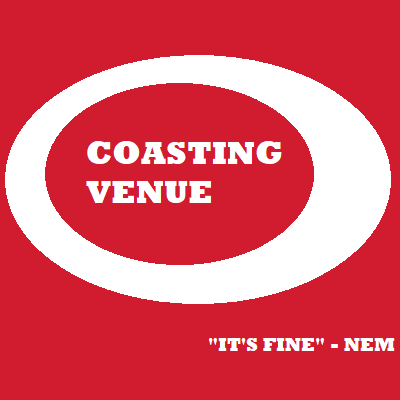
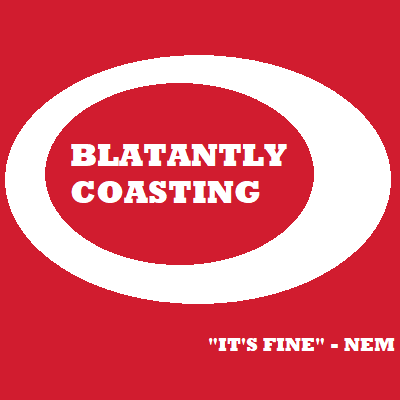
add words to bands.txt, change probability of a b band name

Changed region(s): [[0.18, 0.33, 0.72, 0.42], [0.18, 0.45, 0.66, 0.51]]

diff --git a/src/bottester.js b/src/bottester.js
@@ -1,3 +1,5 @@
+// prints a bill to the console log
+
 var Twitter = require('twitter');
  
 var client = new Twitter({
@@ -8,11 +10,7 @@ var client = new Twitter({
 });
  
 var params = {screen_name: 'finevenue'};
-client.get('statuses/user_timeline', params, function(error, tweets, response) {
-  if (!error) {
-    console.log(tweets);
-  }
-});
+
 
 
 
@@ -107,6 +105,7 @@ function createBand() {
 	return name;
 }
 
+
 function randNumber(max) {
 	return  Math.floor((Math.random() * (max)));
 }
@@ -144,24 +143,8 @@ function toTitleCase(str) {
 }
 
 
-// source: https://stackoverflow.com/questions/4455282/call-a-javascript-function-at-a-specific-time-of-day
-var now = new Date();
-var millisTillTime = new Date(now.getFullYear(), now.getMonth(), now.getDate(), 16, 20, 0, 0) - now;
-if (millisTillTime < 0) {
-     millisTillTime += 86400000; // it's after 10am, try 10am tomorrow.
-}
-setTimeout(function(){makeTweet();}, millisTillTime);
-
-function makeTweet(){
-	var statustext = createBill();
-
-	client.post('statuses/update', {status: statustext},  function(error, tweet, response) {
-	  if(error) throw error;
-	  console.log(tweet);  // Tweet body.
-	  console.log(response);  // Raw response object.
-	});
-	
-};
+var statusText = createBill();
+console.log(statusText);
 
 
 
